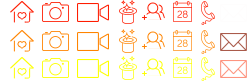
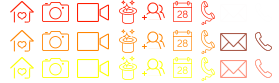
AA: new BG for LS;

diff --git a/styles/main.css b/styles/main.css
@@ -25,7 +25,6 @@ header {
   background-position: top;
   background-size: auto 100%;
 }
-
 /* line 27, main.scss */
 header:before {
   content: '';
@@ -38,7 +37,6 @@ header:before {
   background-position: top;
   background-size: auto 100%;
 }
-
 /* line 40, main.scss */
 header a, header .logo {
   margin: 5px auto;
@@ -46,7 +44,6 @@ header a, header .logo {
   width: 200px;
   height: 80px;
 }
-
 /* line 46, main.scss */
 header .topMenu {
   color: #000;
@@ -56,7 +53,19 @@ header .topMenu {
   margin-top: 20px;
 }
 
-/* line 54, main.scss */
+/* line 52, main.scss */
+header .topMenu ul {
+  margin: 0;
+  padding: 0;
+}
+
+/* line 55, main.scss */
+header .topMenu ul li {
+  display: inline-block;
+  margin-right: 5px;
+}
+
+/* line 62, main.scss */
 header .speach {
   display: block;
   position: absolute;
@@ -70,13 +79,13 @@ header .speach {
   background-size: 100% auto;
 }
 
-/* line 65, main.scss */
+/* line 73, main.scss */
 header .speach p {
   line-height: 1.5;
   text-transform: uppercase;
 }
 
-/* line 69, main.scss */
+/* line 77, main.scss */
 header .speach .phone {
   width: 125px;
   text-align: right;
@@ -88,7 +97,7 @@ header .speach .phone {
   overflow: hidden;
 }
 
-/* line 78, main.scss */
+/* line 86, main.scss */
 header .speach .phone:before {
   content: '';
   width: 35px;
@@ -100,21 +109,21 @@ header .speach .phone:before {
   background: red;
 }
 
-/* line 89, main.scss */
+/* line 97, main.scss */
 header .speach .phone:after {
   content: '';
   width: 30px;
   height: 100%;
   position: absolute;
-  top: 0;
-  left: 2px;
+  top: -1px;
+  left: 0px;
   display: block;
   background: url("../img/menuIcons.png") no-repeat;
-  background-size: 800% auto;
-  background-position: -210px 0px;
+  background-size: 1050% auto;
+  background-position: -280px 0px;
 }
 
-/* line 103, main.scss */
+/* line 111, main.scss */
 header .tarzan {
   content: '';
   display: block;

diff --git a/styles/main.scss b/styles/main.scss
@@ -49,6 +49,14 @@ header {
     background: url("../img/menuBG.png") no-repeat;
     background-size: 100% 100%;
     margin-top: 20px;
+    ul {
+      margin: 0;
+      padding: 0;
+      li {
+        display: inline-block;
+        margin-right: 5px;
+      }
+    }
 
   }
   .speach {
@@ -91,12 +99,12 @@ header {
         width: 30px;
         height: 100%;
         position: absolute;
-        top: 0;
-        left: 2px;
+        top: -1px;
+        left: 0px;
         display: block;
         background: url("../img/menuIcons.png") no-repeat;
-        background-size: 800% auto;
-        background-position: -210px 0px;
+        background-size: 1050% auto;
+        background-position: -280px 0px;
       }
     }
   }

diff --git a/index.html b/index.html
@@ -16,7 +16,15 @@
 <body>
 <header class="topSlider">
     <a href="#"><img src="./img/logo.png" class="logo"></a>
-    <div class="topMenu"> ФАЕРШОУ ГАЛЕРЕЯ КАЛЕНДАРЬ КОНТАКТЫ</div>
+
+    <div class="topMenu">
+        <ul>
+            <li>ФАЕРШОУ</li>
+            <li>ГАЛЕРЕЯ</li>
+            <li>КАЛЕНДАРЬ</li>
+            <li>КОНТАКТЫ</li>
+        </ul>
+    </div>
     <div class="speach">
         <p>Заказать ФаерШоу?</p>
         <div class="phone">098 33 20 640</div>
